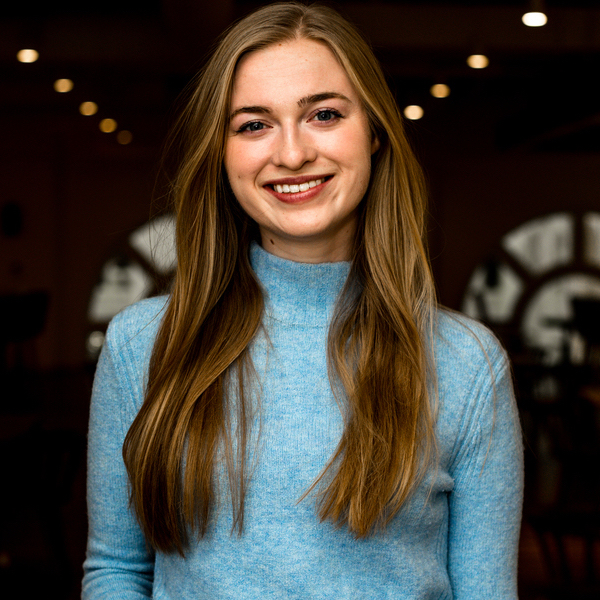
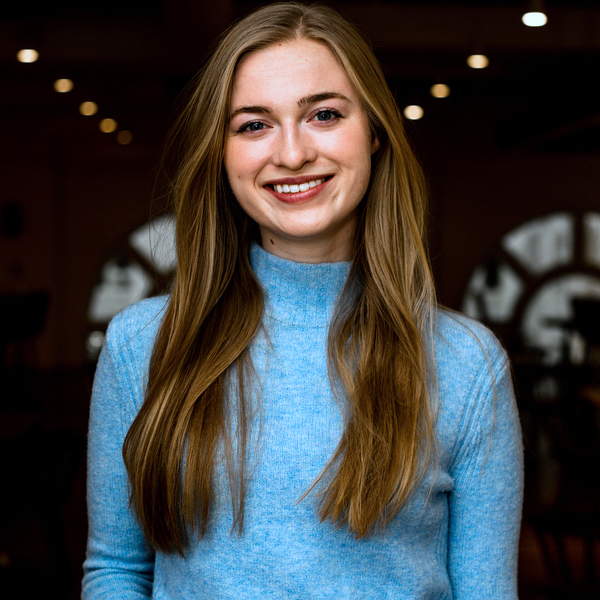
update about and white balance personal photo

diff --git a/content/about.md b/content/about.md
@@ -5,7 +5,7 @@ type: page
 ![that's me!](/images/about/cara.jpg "that's me!")
 
 
-I'm a machine learning engineer at Wayfair, where I work on competitor product matching at the terabytes of data scale. My team won the Wayfair Hackathon in 2019 with our [Clusterbrowse](http://caravanuden.com/wf_clusterbrowse/) project.
+I'm a machine learning engineer at Wayfair, where I work on competitor product matching at the terabytes of data scale. My team won the Wayfair Hackathon in 2019 with our Clusterbrowse project.
 
 I graduated from Dartmouth College, where I studied Computer Science and Cognitive Science. My [thesis](/pdfs/about/thesis.pdf) compared representations learned by various CNN architectures to those of the human ventral visual pathway.
 
